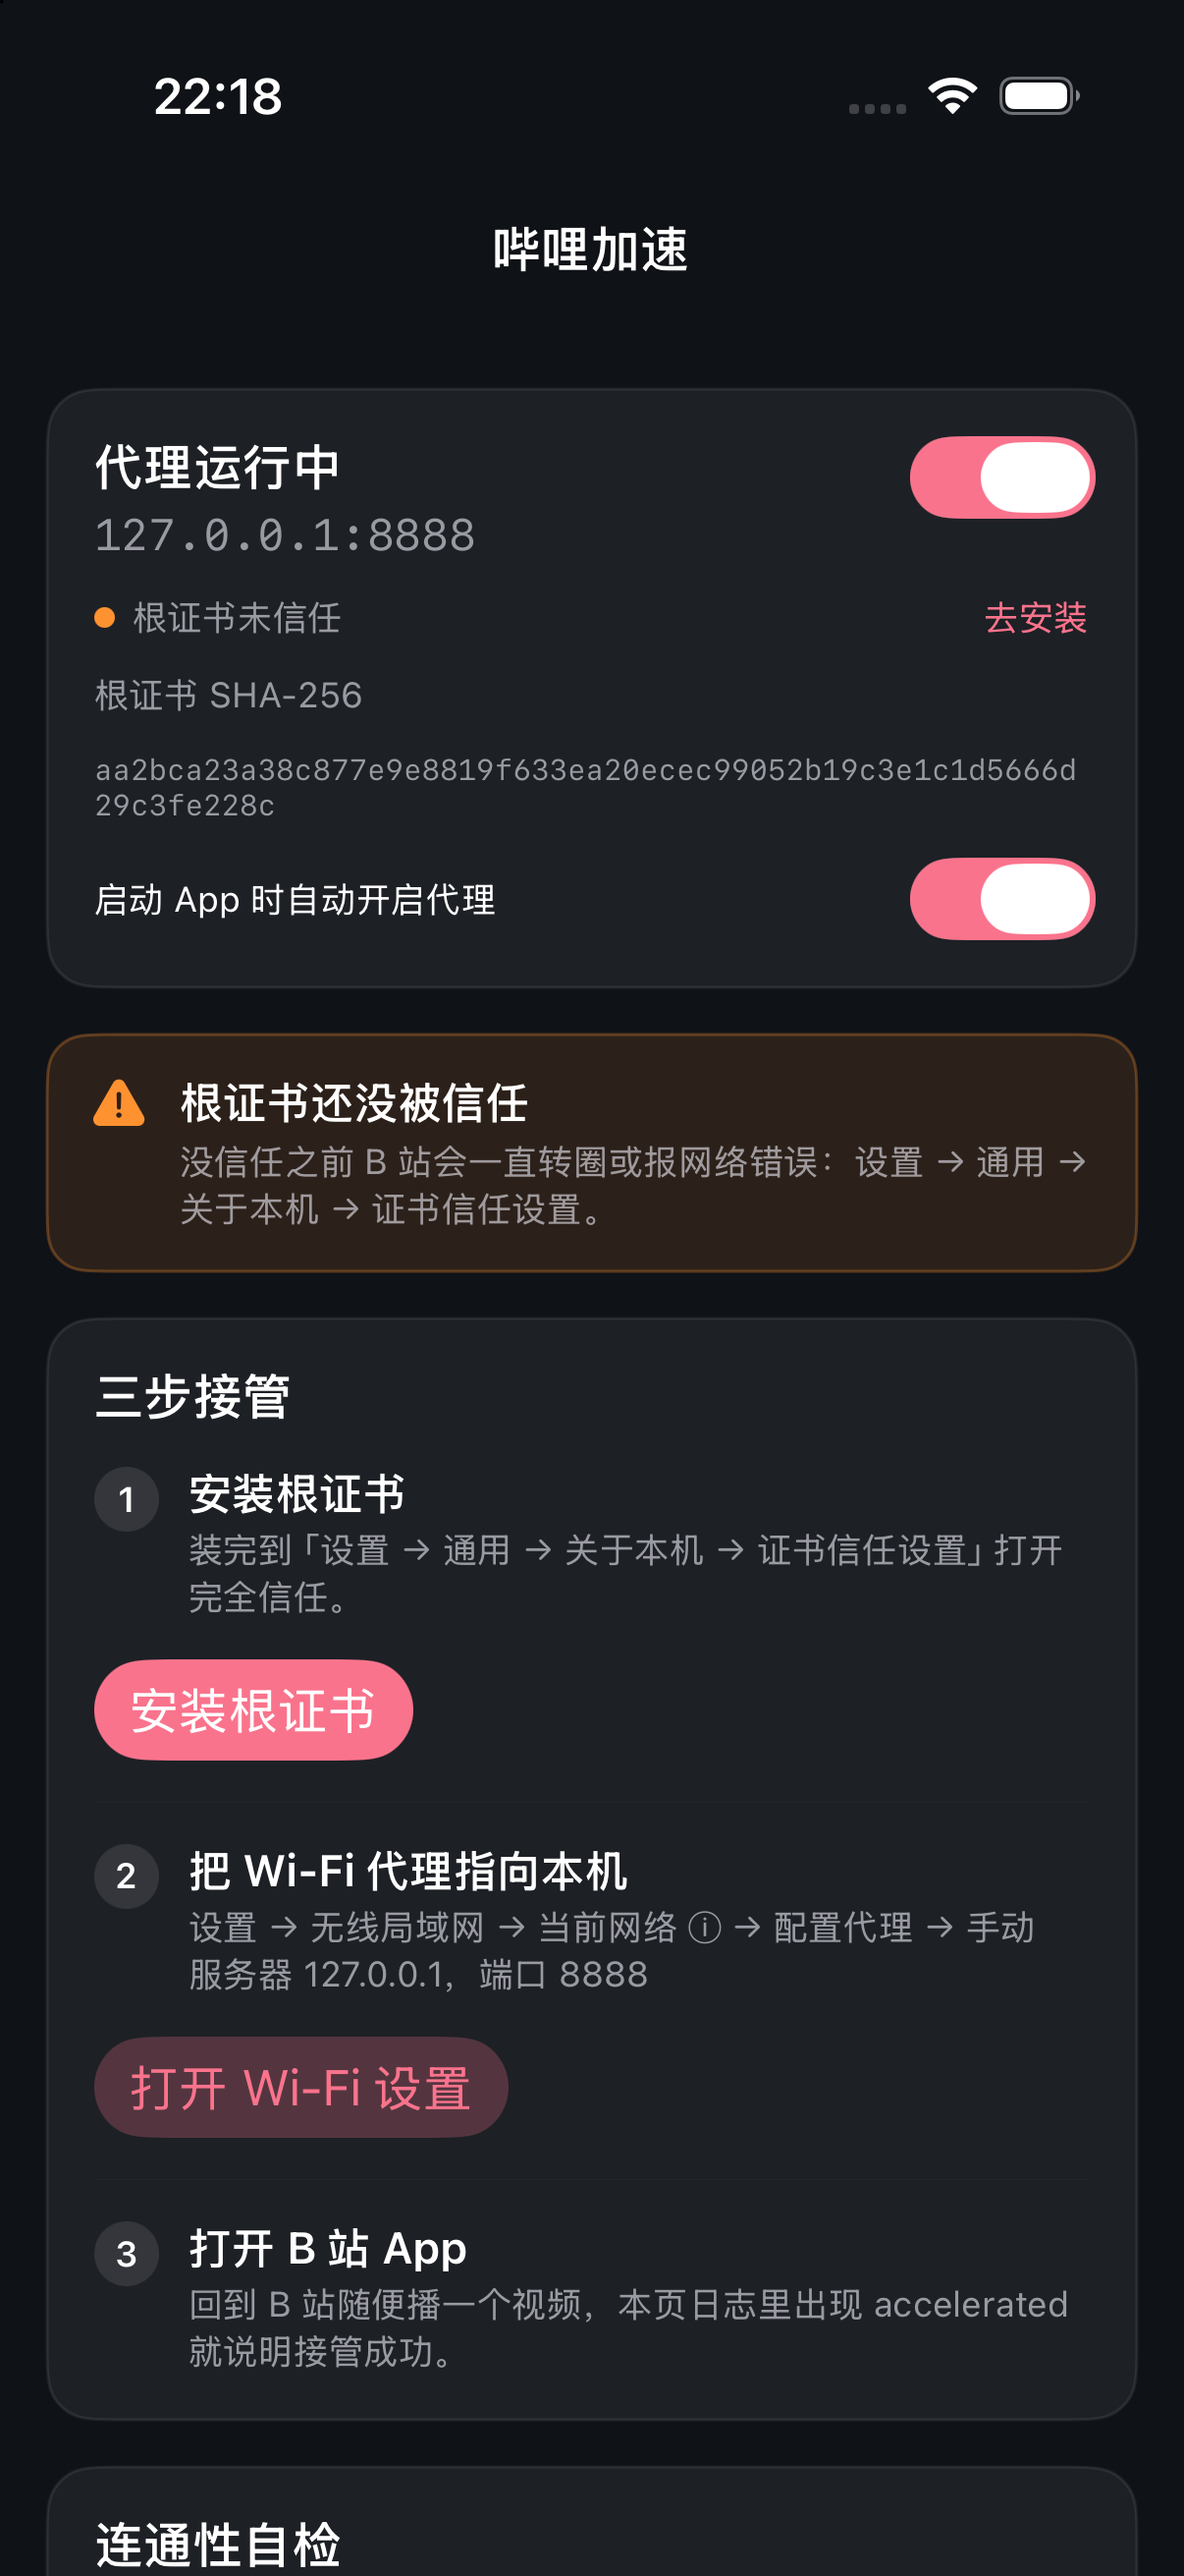
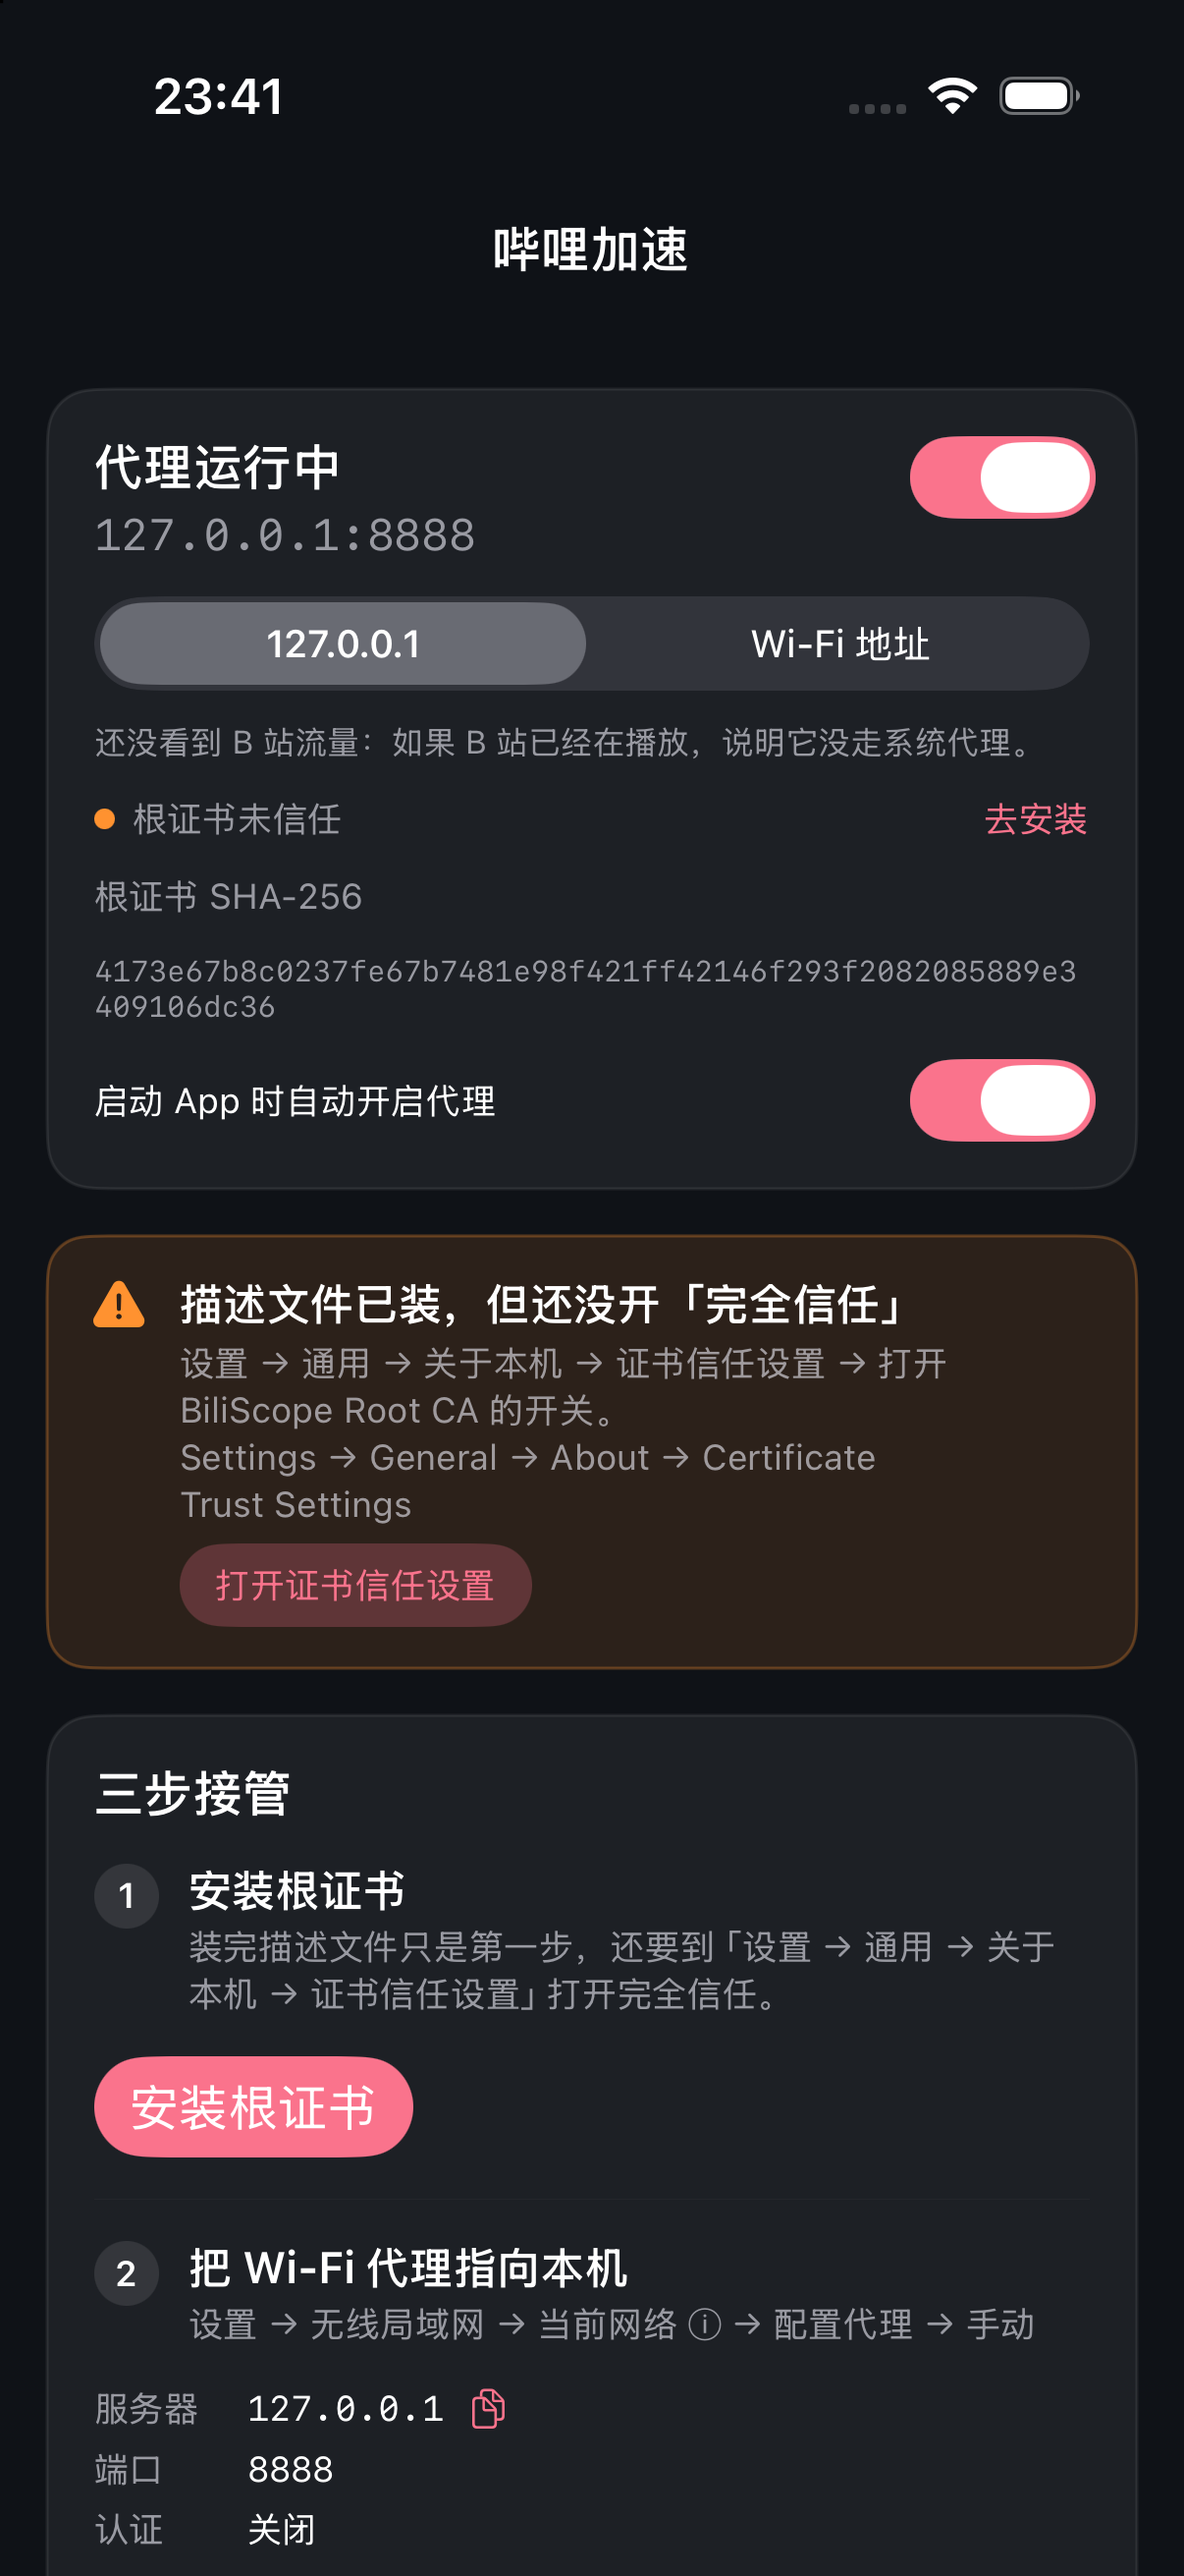
ui: distinguish installed profile from trusted root, add trust-settings shortcut

diff --git a/App/Sources/ContentView.swift b/App/Sources/ContentView.swift
@@ -108,12 +108,16 @@ struct ContentView: View {
                 Image(systemName: "exclamationmark.triangle.fill")
                     .foregroundStyle(.orange)
                 VStack(alignment: .leading, spacing: 4) {
-                    Text("根证书还没被信任")
+                    Text("描述文件已装，但还没开「完全信任」")
                         .font(.subheadline.weight(.semibold))
-                    Text("没信任之前 B 站会一直转圈或报网络错误：设置 → 通用 → 关于本机 → 证书信任设置。")
+                    Text("设置 → 通用 → 关于本机 → 证书信任设置 → 打开 BiliScope Root CA 的开关。\nSettings → General → About → Certificate Trust Settings")
                         .font(.caption)
                         .foregroundStyle(.secondary)
                         .fixedSize(horizontal: false, vertical: true)
+                    Button("打开证书信任设置") { controller.openCertificateTrustSettings() }
+                        .font(.caption)
+                        .buttonStyle(.bordered)
+                        .padding(.top, 2)
                 }
             }
             .padding(14)
@@ -128,7 +132,7 @@ struct ContentView: View {
             Text("三步接管").font(.headline)
 
             step(number: 1, title: "安装根证书",
-                 detail: "装完到「设置 → 通用 → 关于本机 → 证书信任设置」打开完全信任。")
+                 detail: "装完描述文件只是第一步，还要到「设置 → 通用 → 关于本机 → 证书信任设置」打开完全信任。")
             Button("安装根证书") { controller.installCertificate() }
                 .buttonStyle(.borderedProminent)
 

diff --git a/App/Sources/ProxyController.swift b/App/Sources/ProxyController.swift
@@ -196,6 +196,25 @@ final class ProxyController: ObservableObject {
         }
     }
 
+    /// iOS keeps a profile-installed root untrusted until the user flips the
+    /// switch under General → About → Certificate Trust Settings.
+    func openCertificateTrustSettings() {
+        for candidate in ["App-Prefs:root=General&path=About/CERT_TRUST_SETTINGS",
+                          "App-prefs:root=General&path=About/CERT_TRUST_SETTINGS"] {
+            if let url = URL(string: candidate) {
+                UIApplication.shared.open(url, options: [:]) { success in
+                    if !success, let settings = URL(string: UIApplication.openSettingsURLString) {
+                        UIApplication.shared.open(settings)
+                    }
+                }
+                return
+            }
+        }
+        if let url = URL(string: UIApplication.openSettingsURLString) {
+            UIApplication.shared.open(url)
+        }
+    }
+
     func openWiFiSettings() {
         if let url = URL(string: "App-Prefs:root=WIFI"), UIApplication.shared.canOpenURL(url) {
             UIApplication.shared.open(url)

diff --git a/App/Sources/SelfCheck.swift b/App/Sources/SelfCheck.swift
@@ -42,7 +42,7 @@ final class SelfCheck: NSObject, URLSessionDataDelegate {
             if let error {
                 let ns = error as NSError
                 if ns.domain == NSURLErrorDomain && ns.code == NSURLErrorSecureConnectionFailed {
-                    self.finish("❌ TLS 失败：根证书还没被系统信任。先安装根证书，再到 设置 → 通用 → 关于本机 → 证书信任设置 打开完全信任。")
+                    self.finish("❌ TLS 失败：根证书未受信任。仅安装描述文件不够，还要到 设置 → 通用 → 关于本机 → 证书信任设置 打开完全信任。")
                 } else {
                     self.finish("❌ 失败：\(ns.domain) \(ns.code) · \(ns.localizedDescription)")
                 }

diff --git a/docs/device-test.md b/docs/device-test.md
@@ -16,6 +16,10 @@
    `BiliScope Root CA` 的完全信任打开。
 4. **回 App 看状态**：应显示绿点「根证书已信任」。点「运行自检」，应在一两秒内出现
    `✅ 通过：…（206，… 字节）`。
+
+   > 装完描述文件**不等于**已信任。iOS 还要在 设置 → 通用 → 关于本机（页面最底部）
+   > → 证书信任设置 里，把 `BiliScope Root CA` 的开关打开。英文界面是
+   > Settings → General → About → Certificate Trust Settings。
 5. **改代理**：设置 → 无线局域网 → 当前网络 ⓘ → 配置代理 → 手动 →
    服务器 `127.0.0.1`，端口 `8888`，**认证保持关闭**（本代理不支持用户名密码，
    开了认证会直接连不上），存储。
